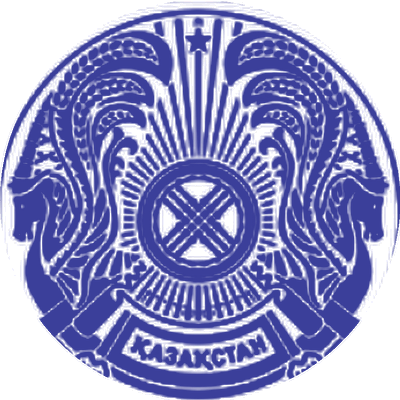
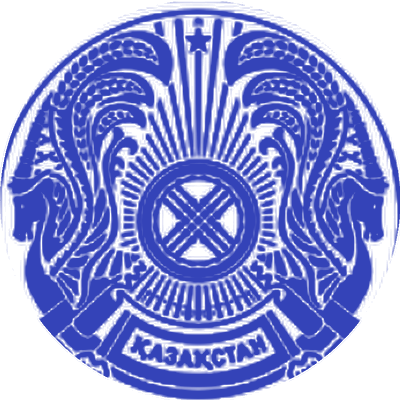
Печати по образцу казахстанских гербовых: полоса «ҚАЗАҚСТАН РЕСПУБЛИКАСЫ», мелкий текст на двух языках, название по дуге, герб
Claude-Session: https://claude.ai/code/session_018vi4J7FQDTP97rNjasLZh6

diff --git a/components/Stamps.tsx b/components/Stamps.tsx
@@ -8,7 +8,7 @@ import { useId } from "react";
  * красный штамп «Приобщено к делу». Оттиск неровный — фильтр «чернила».
  */
 
-const INK = "#3b3f9a";
+const INK = "#3443b8";
 const RED = "#a3271c";
 
 function InkFilter({ id, seed = 3, strength = 1 }: { id: string; seed?: number; strength?: number }) {
@@ -32,8 +32,15 @@ function Emblem({ r }: { r: number }) {
 }
 
 interface RoundProps {
-  outer: string;
-  inner?: string;
+  /** Внешняя полоса (крупно, повторяется по кругу) */
+  band: string;
+  /** Мелкий плотный текст по всему кругу: казахский, затем русский */
+  small: string;
+  /** Средний текст по верхней дуге */
+  top?: string;
+  /** Средний текст по нижней дуге (читается слева направо) */
+  bottom?: string;
+  /** Без герба — надпись в центре */
   center?: string[];
   emblem?: boolean;
   color?: string;
@@ -43,15 +50,22 @@ interface RoundProps {
   className?: string;
 }
 
-/** Круглая печать: внешнее кольцо текста, внутреннее (если есть), центр — герб или надпись. */
-export function RoundSeal({ outer, inner, center, emblem, color = INK, size = 118, rotate = -8, seed = 3, className }: RoundProps) {
+const SEAL_FONT = "'Arial Narrow', 'Roboto Condensed', Arial, Helvetica, sans-serif";
+
+/**
+ * Круглая печать по образцу казахстанских гербовых: толстый обод, полоса
+ * «ҚАЗАҚСТАН РЕСПУБЛИКАСЫ», мелкий плотный текст на двух языках по кругу,
+ * название по верхней дуге, подпись по нижней, герб в центре.
+ */
+export function RoundSeal({ band, small, top, bottom, center, emblem, color = INK, size = 118, rotate = -8, seed = 3, className }: RoundProps) {
   const uid = useId().replace(/:/g, "");
-  const fOuter = `so${uid}`;
-  const fInner = `si${uid}`;
   const ink = `ink${uid}`;
-  const circle = (r: number) => `M ${100 - r} 100 a ${r} ${r} 0 1 1 ${2 * r} 0 a ${r} ${r} 0 1 1 ${-2 * r} 0`;
-  const rO = 79;
-  const rI = 57;
+  const full = (r: number) => `M ${100 - r} 100 a ${r} ${r} 0 1 1 ${2 * r} 0 a ${r} ${r} 0 1 1 ${-2 * r} 0`;
+  const upper = (r: number) => `M ${100 - r} 100 A ${r} ${r} 0 0 1 ${100 + r} 100`;
+  const lower = (r: number) => `M ${100 - r} 100 A ${r} ${r} 0 0 0 ${100 + r} 100`;
+  const ids = { band: `b${uid}`, small: `s${uid}`, top: `t${uid}`, bottom: `u${uid}` };
+  const bandText = `${band} ✻ ${band} ✻ `;
+  const font = { fontFamily: SEAL_FONT, fontWeight: 700 } as const;
   return (
     <svg
       viewBox="0 0 200 200"
@@ -62,40 +76,55 @@ export function RoundSeal({ outer, inner, center, emblem, color = INK, size = 11
       aria-hidden="true"
     >
       <defs>
-        <path id={fOuter} d={circle(rO)} />
-        <path id={fInner} d={circle(rI)} />
-        <InkFilter id={ink} seed={seed} />
+        <path id={ids.band} d={full(87.5)} />
+        <path id={ids.small} d={full(73.5)} />
+        <path id={ids.top} d={upper(62)} />
+        <path id={ids.bottom} d={lower(68)} />
+        <InkFilter id={ink} seed={seed} strength={0.55} />
       </defs>
       <g filter={`url(#${ink})`} fill={color} stroke={color}>
-        <circle cx="100" cy="100" r="96" fill="none" strokeWidth="3.2" />
-        <circle cx="100" cy="100" r="91" fill="none" strokeWidth="1" />
-        <text stroke="none" style={{ fontFamily: "Arial, Helvetica, sans-serif", fontSize: 13.5, fontWeight: 700 }}>
-          <textPath href={`#${fOuter}`} startOffset="0" textLength={2 * Math.PI * rO * 0.985} lengthAdjust="spacing">
-            {outer} ★
+        <circle cx="100" cy="100" r="97" fill="none" strokeWidth="3.4" />
+        <text stroke="none" style={{ ...font, fontSize: 10.5, letterSpacing: 1.2 }}>
+          <textPath href={`#${ids.band}`} textLength={2 * Math.PI * 87.5 * 0.99} lengthAdjust="spacing">
+            {bandText}
           </textPath>
         </text>
-        <circle cx="100" cy="100" r={inner ? 67 : 69} fill="none" strokeWidth="1.2" />
-        {inner && (
-          <>
-            <text stroke="none" style={{ fontFamily: "Arial, Helvetica, sans-serif", fontSize: 10.5, fontWeight: 700 }}>
-              <textPath href={`#${fInner}`} startOffset="0" textLength={2 * Math.PI * rI * 0.98} lengthAdjust="spacing">
-                {inner} •
-              </textPath>
-            </text>
-            <circle cx="100" cy="100" r="47" fill="none" strokeWidth="1" />
-          </>
+        <circle cx="100" cy="100" r="81.5" fill="none" strokeWidth="1.1" />
+        <text stroke="none" style={{ ...font, fontSize: 6.4 }}>
+          <textPath href={`#${ids.small}`} textLength={2 * Math.PI * 73.5 * 0.985} lengthAdjust="spacingAndGlyphs">
+            {small} ✻
+          </textPath>
+        </text>
+        {top && (
+          <text stroke="none" style={{ ...font, fontSize: 9 }}>
+            <textPath
+              href={`#${ids.top}`}
+              startOffset="50%"
+              textAnchor="middle"
+              {...(top.length > 26 ? { textLength: Math.PI * 62 * 0.86, lengthAdjust: "spacingAndGlyphs" } : {})}
+            >
+              {top}
+            </textPath>
+          </text>
+        )}
+        {bottom && (
+          <text stroke="none" style={{ ...font, fontSize: 9, letterSpacing: 1.6 }}>
+            <textPath href={`#${ids.bottom}`} startOffset="50%" textAnchor="middle">
+              {bottom}
+            </textPath>
+          </text>
         )}
         {emblem ? (
-          <Emblem r={inner ? 45 : 66} />
+          <Emblem r={48} />
         ) : (
           (center ?? []).map((line, i, all) => (
             <text
               key={i}
               x="100"
-              y={100 + (i - (all.length - 1) / 2) * 17 + 5}
+              y={100 + (i - (all.length - 1) / 2) * 16 + 5}
               textAnchor="middle"
               stroke="none"
-              style={{ fontFamily: "Arial, Helvetica, sans-serif", fontSize: i === 0 ? 17 : 12, fontWeight: 700 }}
+              style={{ ...font, fontSize: i === 0 ? 18 : 10 }}
             >
               {line}
             </text>
@@ -162,34 +191,51 @@ export function AttachedStamp({ sheet }: { sheet?: number }) {
 
 // ───────── Какая печать на каком документе ─────────
 
-type SealDef = { outer: string; inner?: string; center?: string[]; emblem?: boolean };
+type SealDef = Omit<RoundProps, "color" | "size" | "rotate" | "seed" | "className">;
+
+const KZ = "ҚАЗАҚСТАН РЕСПУБЛИКАСЫ";
 
 export const SEALS: Record<string, SealDef> = {
   guvd: {
-    outer: "АЛМАТЫ ҚАЛАСЫНЫҢ ІШКІ ІСТЕР БАС БАСҚАРМАСЫ",
-    inner: "ГУВД г. АЛМАТЫ МВД РЕСПУБЛИКИ КАЗАХСТАН",
+    band: KZ,
+    small:
+      "ҚАЗАҚСТАН РЕСПУБЛИКАСЫ ІШКІ ІСТЕР МИНИСТРЛІГІНІҢ АЛМАТЫ ҚАЛАСЫ БОЙЫНША ІШКІ ІСТЕР БАС БАСҚАРМАСЫ ✻ ГЛАВНОЕ УПРАВЛЕНИЕ ВНУТРЕННИХ ДЕЛ г. АЛМАТЫ МВД РЕСПУБЛИКИ КАЗАХСТАН",
+    top: "Ішкі істер бас басқармасы ✻ ГУВД г. Алматы",
+    bottom: "Канцелярия",
     emblem: true,
   },
   rovd: {
-    outer: "АЛМАТЫ ҚАЛАСЫ МЕДЕУ АУДАНДЫҚ ІШКІ ІСТЕР БӨЛІМІ",
-    inner: "МЕДЕУСКИЙ РОВД г. АЛМАТЫ",
+    band: KZ,
+    small:
+      "АЛМАТЫ ҚАЛАСЫ ІШКІ ІСТЕР БАС БАСҚАРМАСЫНЫҢ МЕДЕУ АУДАНДЫҚ ІШКІ ІСТЕР БӨЛІМІ ✻ МЕДЕУСКИЙ РАЙОННЫЙ ОТДЕЛ ВНУТРЕННИХ ДЕЛ ГУВД г. АЛМАТЫ",
+    top: "Медеу аудандық ІІБ ✻ Медеуский РОВД",
+    bottom: "Дежурная часть",
     emblem: true,
   },
   prosecutor: {
-    outer: "АЛМАТЫ ҚАЛАСЫНЫҢ ПРОКУРАТУРАСЫ",
-    inner: "ПРОКУРАТУРА г. АЛМАТЫ",
+    band: KZ,
+    small:
+      "ҚАЗАҚСТАН РЕСПУБЛИКАСЫ БАС ПРОКУРАТУРАСЫНЫҢ АЛМАТЫ ҚАЛАСЫНЫҢ ПРОКУРАТУРАСЫ ✻ ПРОКУРАТУРА г. АЛМАТЫ ГЕНЕРАЛЬНОЙ ПРОКУРАТУРЫ РЕСПУБЛИКИ КАЗАХСТАН",
+    top: "Қала прокуратурасы ✻ Прокуратура города",
+    bottom: "Алматы",
     emblem: true,
   },
   eko: {
-    outer: "ЭКСПЕРТНО-КРИМИНАЛИСТИЧЕСКИЙ ОТДЕЛ ГУВД г. АЛМАТЫ",
-    center: ["ЭКО", "для", "заключений"],
+    band: "АЛМАТЫ ҚАЛАСЫ ІІББ",
+    small:
+      "АЛМАТЫ ҚАЛАСЫ ІШКІ ІСТЕР БАС БАСҚАРМАСЫНЫҢ САРАПТАУ-КРИМИНАЛИСТИКАЛЫҚ БӨЛІМІ ✻ ЭКСПЕРТНО-КРИМИНАЛИСТИЧЕСКИЙ ОТДЕЛ ГУВД г. АЛМАТЫ",
+    center: ["ЭКО", "для заключений"],
   },
   sme: {
-    outer: "АЛМАТИНСКОЕ ГОРОДСКОЕ БЮРО СУДЕБНО-МЕДИЦИНСКОЙ ЭКСПЕРТИЗЫ",
-    center: ["СМЭ", "для", "заключений"],
+    band: "АЛМАТЫ ҚАЛАСЫ",
+    small:
+      "АЛМАТЫ ҚАЛАЛЫҚ СОТ-МЕДИЦИНАЛЫҚ САРАПТАМА БЮРОСЫ ✻ АЛМАТИНСКОЕ ГОРОДСКОЕ БЮРО СУДЕБНО-МЕДИЦИНСКОЙ ЭКСПЕРТИЗЫ",
+    center: ["СМЭ", "для заключений"],
   },
   ivc: {
-    outer: "ИНФОРМАЦИОННО-ВЫЧИСЛИТЕЛЬНЫЙ ЦЕНТР ГУВД г. АЛМАТЫ",
+    band: "АЛМАТЫ ҚАЛАСЫ ІІББ",
+    small:
+      "АЛМАТЫ ҚАЛАСЫ ІШКІ ІСТЕР БАС БАСҚАРМАСЫНЫҢ АҚПАРАТТЫҚ-ЕСЕПТЕУ ОРТАЛЫҒЫ ✻ ИНФОРМАЦИОННО-ВЫЧИСЛИТЕЛЬНЫЙ ЦЕНТР ГУВД г. АЛМАТЫ",
     center: ["ИВЦ", "№ 2"],
   },
 };
